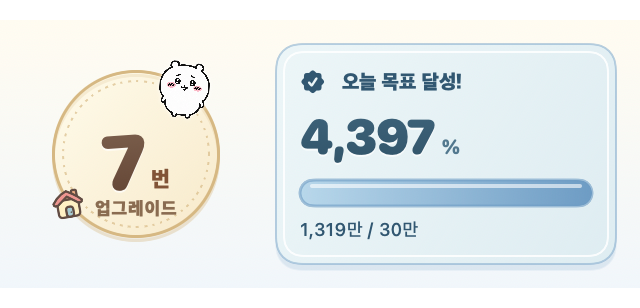
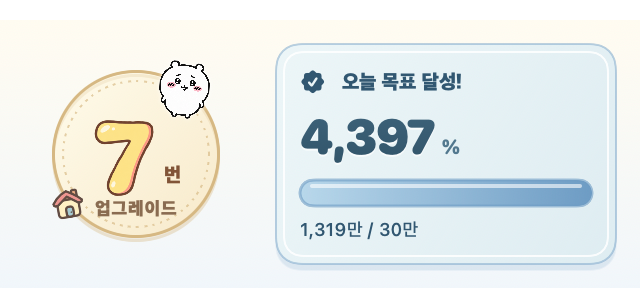
Use individually illustrated number assets for upgrade stamps in 0.4.11

Changed region(s): [[0.125, 0.3799, 0.2812, 0.6429]]

diff --git a/Sources/ChiiBar/IllustratedNumber.swift b/Sources/ChiiBar/IllustratedNumber.swift
@@ -1,0 +1,86 @@
+import AppKit
+import SwiftUI
+
+/// 0...30 are individually illustrated numbers. Larger counts use the same drawn digits.
+struct IllustratedNumber: View {
+    let count: Int
+    var body: some View {
+        let images = NumberArtwork.images(for: max(0, count))
+        Canvas { context, size in
+            guard !images.isEmpty else { return }
+            let heights = images.map { CGFloat($0.height) }
+            let naturalWidths = images.enumerated().map { CGFloat($0.element.width) / heights[$0.offset] }
+            let gap: CGFloat = images.count > 1 ? 0.06 : 0
+            let total = naturalWidths.reduce(0, +) + gap * CGFloat(images.count - 1)
+            let height = min(size.height, size.width / total)
+            var x = (size.width - total * height) / 2
+            for (index, image) in images.enumerated() {
+                let width = naturalWidths[index] * height
+                context.draw(Image(decorative: image, scale: 1),
+                             in: CGRect(x: x, y: (size.height - height) / 2, width: width, height: height))
+                x += width + gap * height
+            }
+        }
+        .frame(width: count < 10 ? 38 : 60, height: 38)
+        .accessibilityLabel("\(count)")
+    }
+}
+
+@MainActor
+private enum NumberArtwork {
+    static var cache: [Int: CGImage] = [:]
+    static let root: URL = {
+        if let path = ProcessInfo.processInfo.environment["CHIIBAR_NUMBERS"] {
+            return URL(fileURLWithPath: path)
+        }
+        return (Bundle.main.resourceURL ?? Bundle.main.bundleURL).appendingPathComponent("StampNumbers")
+    }()
+
+    static func images(for count: Int) -> [CGImage] {
+        if count <= 30, let image = image(count) { return [image] }
+        var result: [CGImage] = []
+        for digit in String(count) {
+            if let value = digit.wholeNumberValue, let artwork = image(value) { result.append(artwork) }
+        }
+        return result
+    }
+
+    static func image(_ number: Int) -> CGImage? {
+        if let cached = cache[number] { return cached }
+        let url = root.appendingPathComponent(String(format: "%02d.png", number))
+        guard let source = NSImage(contentsOf: url),
+              let image = source.cgImage(forProposedRect: nil, context: nil, hints: nil) else { return nil }
+        // Generated files retain their original alpha. Ignore transparent padding at draw time.
+        let w = image.width, h = image.height
+        var pixels = [UInt8](repeating: 0, count: w * h * 4)
+        let bounds: CGRect? = pixels.withUnsafeMutableBytes { bytes in
+            guard let ctx = CGContext(data: bytes.baseAddress, width: w, height: h, bitsPerComponent: 8,
+                                      bytesPerRow: w * 4, space: CGColorSpaceCreateDeviceRGB(),
+                                      bitmapInfo: CGImageAlphaInfo.premultipliedLast.rawValue | CGBitmapInfo.byteOrder32Big.rawValue),
+                  let data = bytes.baseAddress?.assumingMemoryBound(to: UInt8.self) else { return nil }
+            ctx.draw(image, in: CGRect(x: 0, y: 0, width: w, height: h))
+            var left = w, top = h, right = -1, bottom = -1
+            for y in 0..<h {
+                for x in 0..<w where data[(y * w + x) * 4 + 3] > 8 {
+                    left = min(left, x); right = max(right, x)
+                    top = min(top, y); bottom = max(bottom, y)
+                }
+            }
+            guard right >= left, bottom >= top else { return nil }
+            return CGRect(x: left, y: top, width: right - left + 1, height: bottom - top + 1)
+        }
+        guard let bounds, let trimmed = image.cropping(to: bounds) else { return nil }
+        // The stamp is tiny; cache a retina-sized draw image rather than 31 full-resolution originals.
+        let scale = min(1, 192 / CGFloat(max(trimmed.width, trimmed.height)))
+        let width = max(1, Int(CGFloat(trimmed.width) * scale))
+        let height = max(1, Int(CGFloat(trimmed.height) * scale))
+        guard let small = CGContext(data: nil, width: width, height: height, bitsPerComponent: 8,
+                                    bytesPerRow: width * 4, space: CGColorSpaceCreateDeviceRGB(),
+                                    bitmapInfo: CGImageAlphaInfo.premultipliedLast.rawValue) else { return trimmed }
+        small.interpolationQuality = .high
+        small.draw(trimmed, in: CGRect(x: 0, y: 0, width: width, height: height))
+        let result = small.makeImage() ?? trimmed
+        cache[number] = result
+        return result
+    }
+}

diff --git a/Scripts/check-number-art.swift b/Scripts/check-number-art.swift
@@ -1,0 +1,27 @@
+import AppKit
+
+// Run from the repository root. Reads artwork without modifying it.
+for number in 0...30 {
+    let path = String(format: "Art/StampNumbers/%02d.png", number)
+    guard let source = NSImage(contentsOfFile: path),
+          let image = source.cgImage(forProposedRect: nil, context: nil, hints: nil) else {
+        fatalError("Missing or invalid number image: \(path)")
+    }
+    let w = image.width, h = image.height
+    var pixels = [UInt8](repeating: 0, count: w * h * 4)
+    let valid = pixels.withUnsafeMutableBytes { bytes -> Bool in
+        guard let c = CGContext(data: bytes.baseAddress, width: w, height: h, bitsPerComponent: 8,
+                                bytesPerRow: w * 4, space: CGColorSpaceCreateDeviceRGB(),
+                                bitmapInfo: CGImageAlphaInfo.premultipliedLast.rawValue | CGBitmapInfo.byteOrder32Big.rawValue),
+              let data = bytes.baseAddress?.assumingMemoryBound(to: UInt8.self) else { return false }
+        c.draw(image, in: CGRect(x: 0, y: 0, width: w, height: h))
+        var transparent = 0, opaque = 0
+        for pixel in 0..<(w * h) {
+            if data[pixel * 4 + 3] == 0 { transparent += 1 }
+            if data[pixel * 4 + 3] > 240 { opaque += 1 }
+        }
+        return transparent > w * h / 10 && opaque > w * h / 50
+    }
+    precondition(valid, "Image lacks usable content or transparency: \(path)")
+    print("\(number): \(w)x\(h), transparent content verified")
+}

diff --git a/Sources/ChiiBar/UpgradeBadge.swift b/Sources/ChiiBar/UpgradeBadge.swift
@@ -15,18 +15,14 @@ struct UpgradeBadge: View {
                 .shadow(color: gold.opacity(0.2), radius: 0, y: 2)
             Circle().stroke(gold.opacity(0.65), style: StrokeStyle(lineWidth: 1, dash: [1, 3]))
                 .frame(width: 73, height: 73)
-            HStack(alignment: .firstTextBaseline, spacing: 2) {
-                StampNumber(text: "\(count)", size: count > 999 ? 23 : count > 99 ? 29 : 38,
-                            colors: [Ink.rgb(0x795D4B), Ink.rgb(0x654736)], ink: .white)
-                    .rotationEffect(.degrees(-4))
+            HStack(alignment: .bottom, spacing: 1) {
+                IllustratedNumber(count: count)
                 Text("번")
-                    .font(.custom("AppleSDGothicNeo-Heavy", size: 11))
+                    .font(.custom("AppleSDGothicNeo-Heavy", size: 10))
                     .foregroundStyle(Ink.rgb(0x815437))
-                    .rotationEffect(.degrees(0))
-                    .offset(y: -1)
+                    .padding(.bottom, 4)
             }
-            .frame(maxWidth: 82).minimumScaleFactor(0.6).lineLimit(1)
-            .offset(y: 3)
+            .offset(x: -1, y: 2)
             Text("업그레이드")
                 .font(.custom("AppleSDGothicNeo-Heavy", size: 9))
                 .tracking(0.5)

diff --git a/Sources/ChiiBar/Previews.swift b/Sources/ChiiBar/Previews.swift
@@ -28,6 +28,23 @@ enum Previews {
         }
         let sz = HouseArt.size
 
+        if ProcessInfo.processInfo.environment["CHIIBAR_NUMBER_SHEET"] == "1" {
+            save("number-stamps", CGSize(width: 720, height: 720), VStack(spacing: 0) {
+                ForEach(0..<6) { row in
+                    HStack(spacing: 0) {
+                        ForEach(0..<6) { column in
+                            let count = row * 6 + column
+                            VStack(spacing: 2) {
+                                UpgradeBadge(count: count)
+                                Text("\(count)").font(.system(size: 9)).foregroundStyle(.gray)
+                            }.frame(width: 120, height: 120)
+                        }
+                    }
+                }
+            }.background(Theme.background))
+            return
+        }
+
         if ProcessInfo.processInfo.environment["CHIIBAR_STAMP_ONLY"] == "1" {
             for (count, earned) in [(0, Int64(0)), (7, 13_193_379), (77, 243_000), (7777, Int64.max)] {
                 save("stamp_\(count)", CGSize(width: 320, height: 154), HStack(spacing: 14) {

diff --git a/Art/StampNumbers/README.md b/Art/StampNumbers/README.md
@@ -1,0 +1,10 @@
+# Illustrated upgrade numbers
+
+Production numeral PNGs for the daily upgrade stamp, created with the built-in image_gen tool on 2026-10-16. Each number from 0 through 30 has its own illustration; these are not font screenshots.
+
+- `00.png` through `30.png`: original generated transparent images, unchanged.
+- `07.png`: initial style reference. Other numbers were generated individually using this reference.
+- `prompts.json`: exact reference prompt and the shared prompt template, substituting NUMBER with the requested integer.
+- The renderer trims transparent margins only in memory, fits the illustration inside the stamp, and caches a maximum-192px display image. The saved PNGs remain intact.
+- Counts above 30 use the illustrated 0–9 digits. The saved count, progression rules, and accessibility labels remain numeric and unchanged.
+- Build packaging requires all 31 images; image accuracy and 1–30 layouts are visually reviewed in the number-stamps preview.
